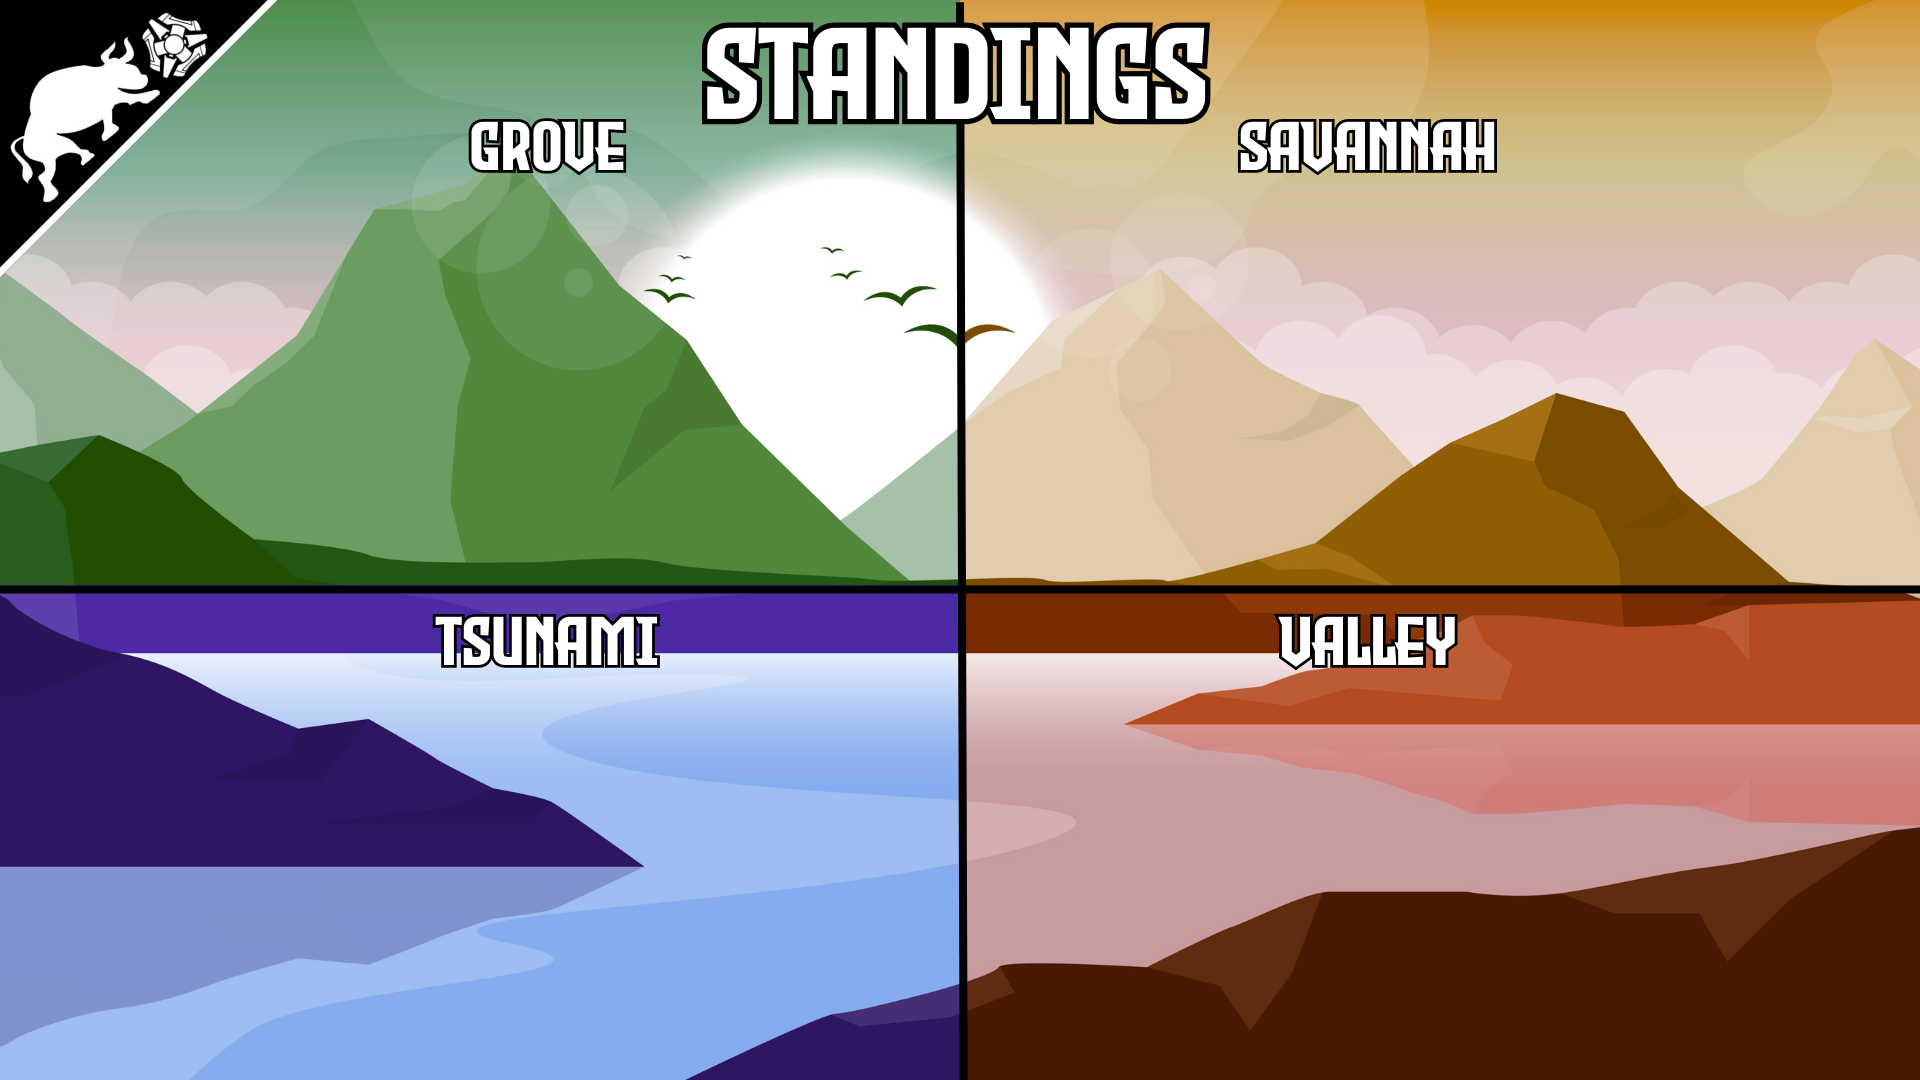
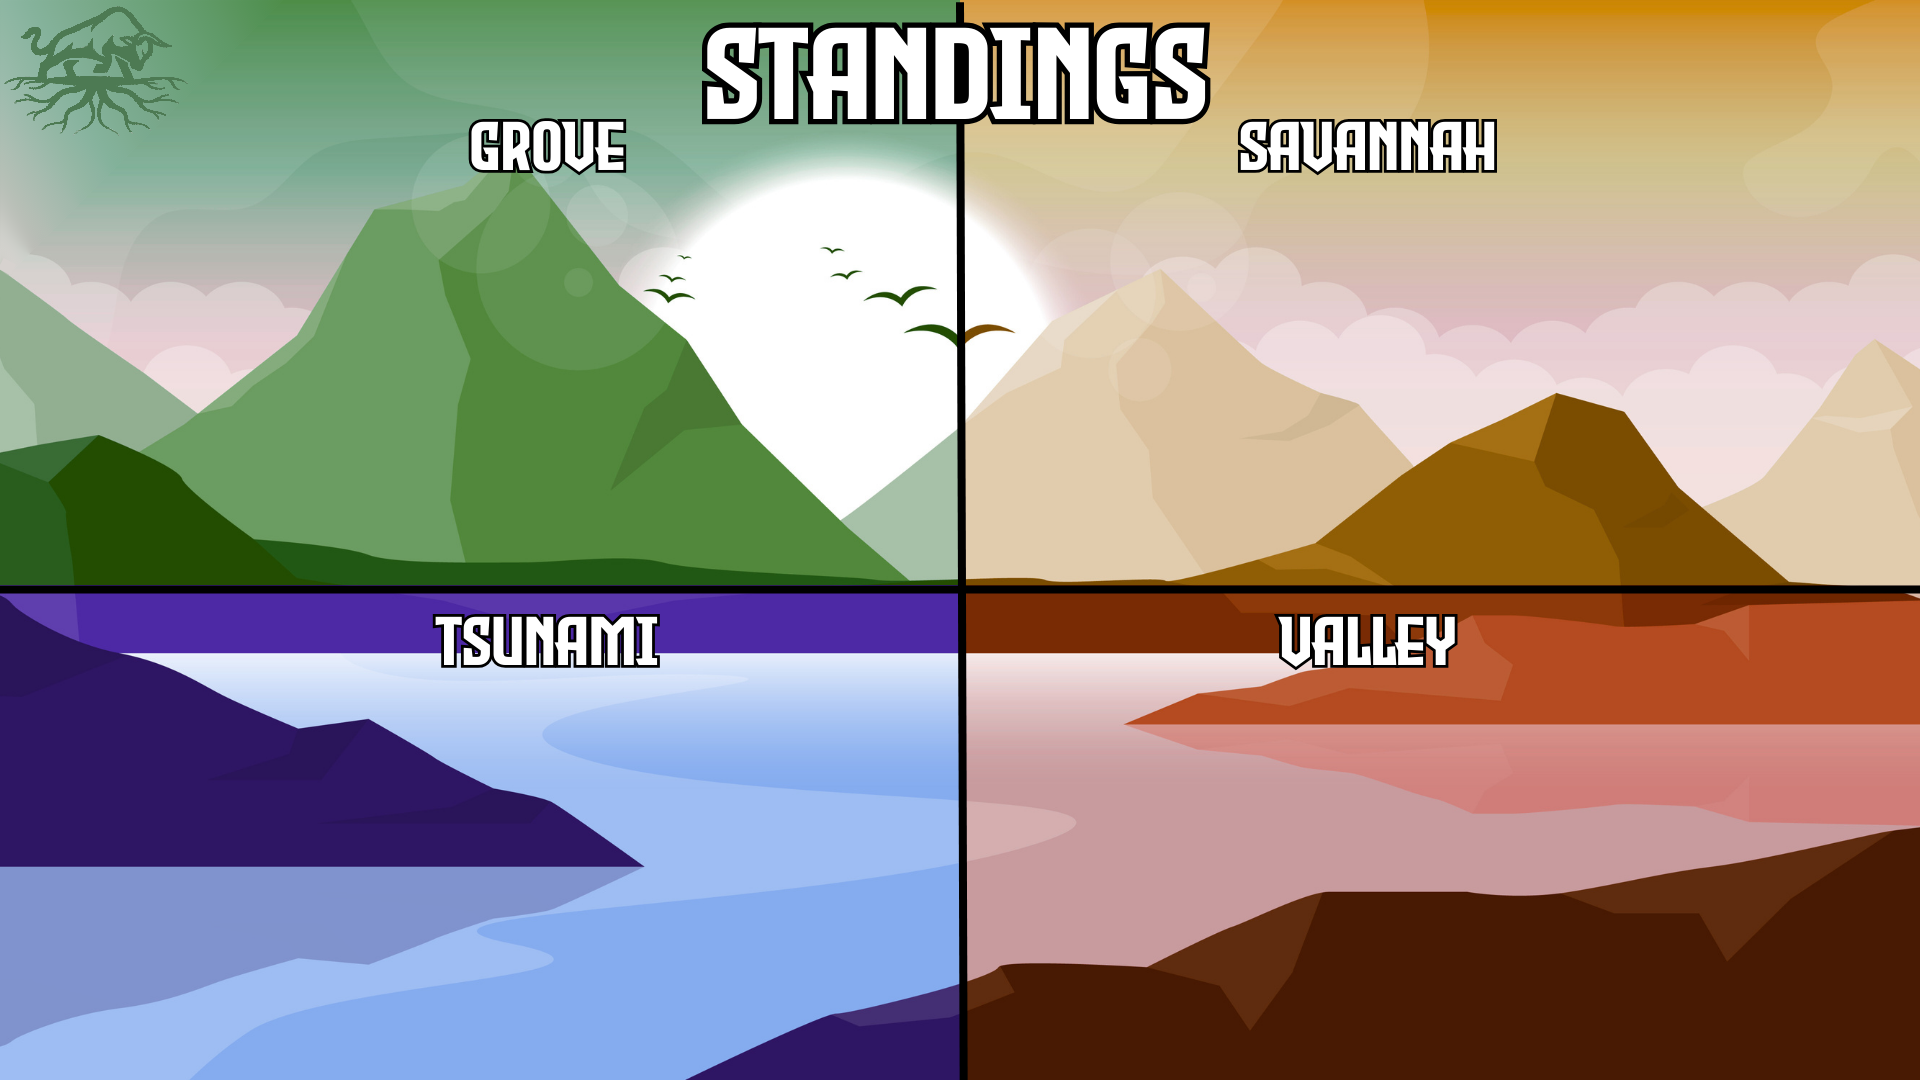
standings command update

Changed region(s): [[0.0, 0.0, 0.1562, 0.2444]]

diff --git a/commands/util/standings.js b/commands/util/standings.js
@@ -30,18 +30,20 @@ const divisions = {
     startCol: "R",
     startRow: 11,
     logo: "apex logo.png",
-    name: "SAVANNAH",
+    name: "APEX",
   },
   Alpha: {
     startCol: "D",
     startRow: 29,
     logo: "alpha logo.png",
-    name: "TSUNAMI",
+    name: "ALPHA",
   },
-  Beta: { startCol: "R", startRow: 29, logo: "beta logo.png", name: "VALLEY" },
+  Beta: { startCol: "R", startRow: 29, logo: "beta logo.png", name: "Beta" },
   Delta: { startCol: "D", startRow: 47, logo: "delta logo.png", name: "DELTA" },
   Omega: { startCol: "R", startRow: 47, logo: "omega logo.png", name: "OMEGA" },
 };
+
+const ROSTER_SHEET_ID = process.env.rosterSheetId;
 
 module.exports = {
   data: new SlashCommandBuilder()
@@ -113,7 +115,7 @@ async function makeStandingsGraphics(tier, interaction, standingsChannel) {
     });
 
     const sheets = google.sheets({ version: "v4", auth });
-    const spreadsheetId = "187AXnmM3a4pHXJgeb0rzb1mbPiMKLz0qeHUVPm7q2ys";
+    const spreadsheetId = ROSTER_SHEET_ID;
 
     console.log("Using spreadsheet ID:", spreadsheetId);
     console.log("Selected division:", selectedDivision || "All divisions");

diff --git a/events/ready.js b/events/ready.js
@@ -59,6 +59,7 @@ module.exports = {
 
     console.log("✅ Year Check Scheduler started.");
 
+    startLeaderboardUpdater(client);
 
     const checkAnniversaries = async () => {
       const guild = client.guilds.cache.get(GUILD_ID);
@@ -193,10 +194,7 @@ async function checkAndReleaseRFA(client) {
   const [mm, dd] = todayTag.split("/");
   const m = String(Number(mm));
   const d = String(Number(dd));
-  const rfaPattern = new RegExp(
-    `RFA\\s*(?<!\\d)0?${m}\\/0?${d}(?!\\d)`,
-    "i",
-  );
+  const rfaPattern = new RegExp(`RFA\\s*(?<!\\d)0?${m}\\/0?${d}(?!\\d)`, "i");
 
   for (const [, member] of rfaRole.members) {
     const nickname = member.nickname || member.user.username;
